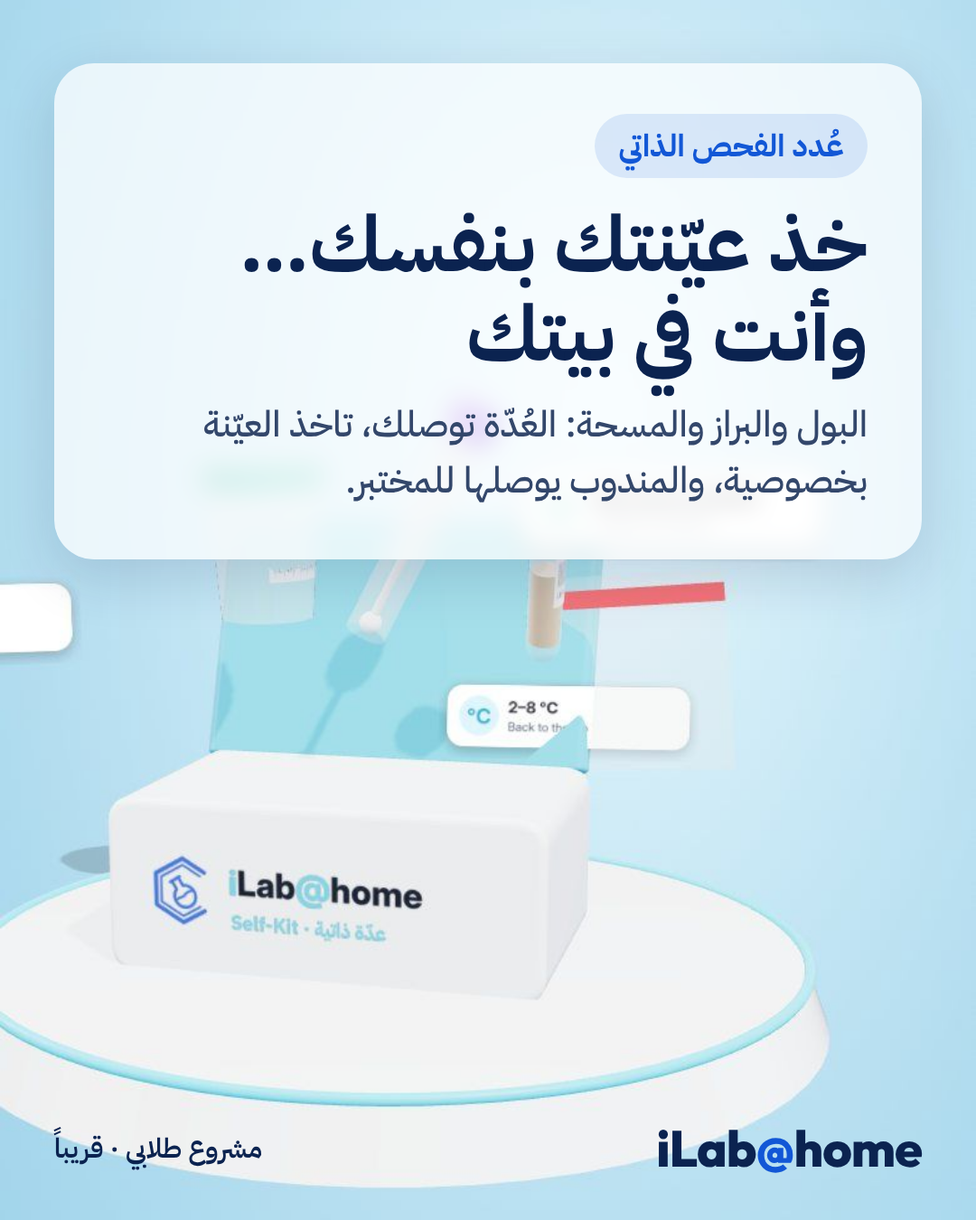
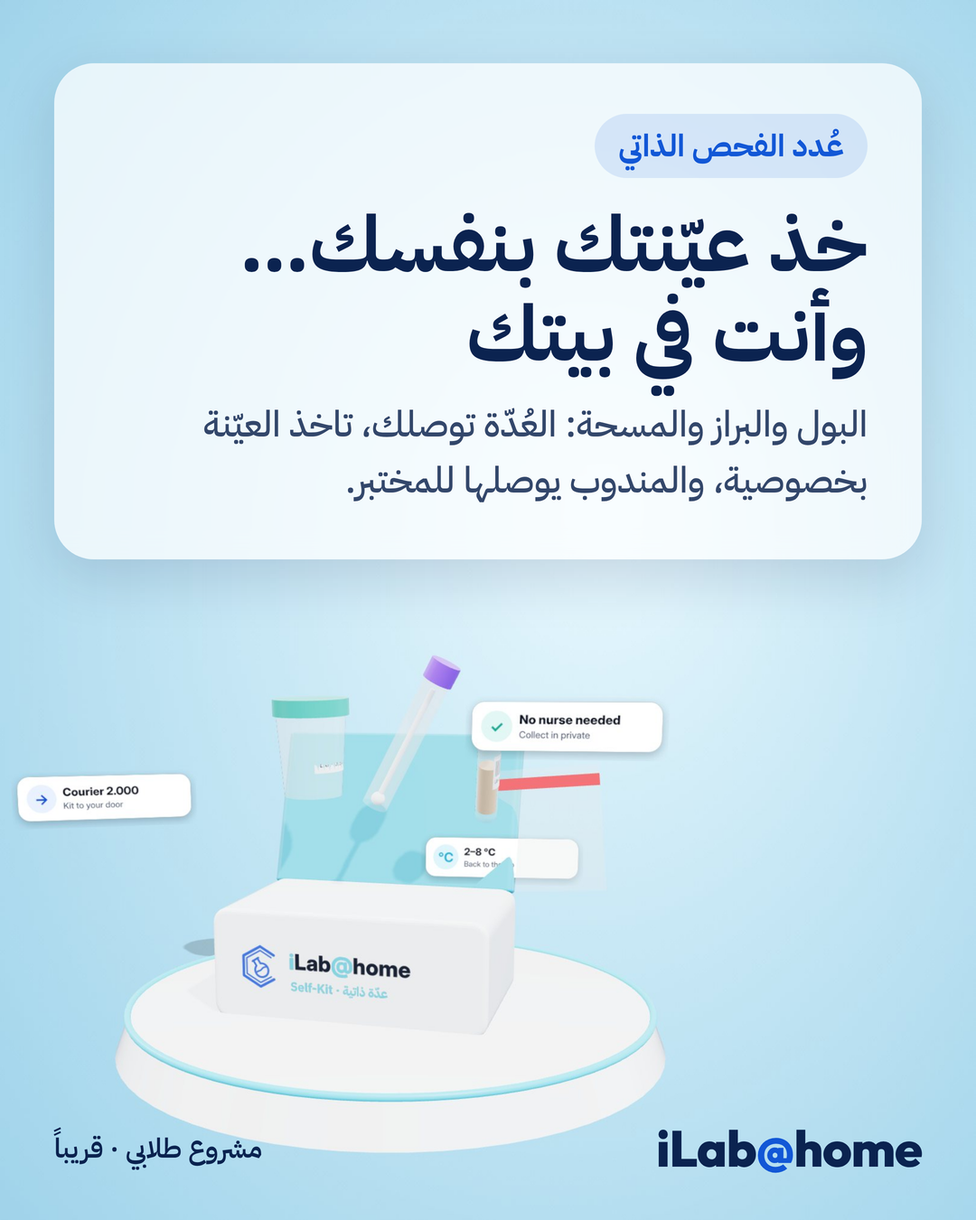
v37: clear trial-version notices (booking, payment, report, PDF): no money taken, results simulated; sharper Instagram images (2x render, hi-res 3D scenes)
Claude-Session: https://claude.ai/code/session_01YANjQfk6gTTfHHSBHSL3Pp

Changed region(s): [[0.0, 0.4356, 0.8556, 0.9956], [0.0, 0.4667, 0.0917, 0.56], [0.4583, 0.3422, 0.5194, 0.3733]]

diff --git a/js/app.js b/js/app.js
@@ -472,11 +472,11 @@ async function viewBook(){
       <div class="row"><input class="input grow" id="cpn" placeholder="${t('coupon')} · ${t('coupon_ph')}" value="${esc(b.coupon ? b.coupon.code : '')}" style="text-transform:uppercase" autocomplete="off"><button class="btn soft" id="cpa">${t('apply')}</button></div>
       ${b.coupon ? `<div class="small" style="color:var(--teal);font-weight:600">${ic('check',14)} ${t('coupon_ok',{x:omr(dCoupon)})}</div>` : ''}
       <div class="paym">${[['card','card','pay_card'],['applepay','phone','pay_apple']].map(([v, i, k]) => `<label class="${b.pay === v ? 'on' : ''}"><input type="radio" name="pay" value="${v}" ${b.pay === v ? 'checked' : ''}> ${ic(i)} <span class="grow b">${t(k)}</span></label>`).join('')}</div>
-      ${b.pay === 'card' ? `<div class="grid g3"><label class="field" style="grid-column:1/-1"><span>${t('card_no')}</span><input class="input ltr" id="cn" inputmode="numeric" maxlength="23" placeholder="4242 4242 4242 4242" autocomplete="cc-number" style="width:100%"></label><label class="field"><span>${t('exp')}</span><input class="input ltr" id="ce" inputmode="numeric" maxlength="5" placeholder="12/28" autocomplete="cc-exp"></label><label class="field"><span>${t('cvv')}</span><input class="input ltr" id="cv" inputmode="numeric" maxlength="4" placeholder="123" autocomplete="cc-csc"></label></div>` : ''}
+      ${b.pay === 'card' ? `<div class="grid g3"><label class="field" style="grid-column:1/-1"><span>${t('card_no')}</span><input class="input ltr" id="cn" inputmode="numeric" maxlength="23" placeholder="4242 4242 4242 4242" autocomplete="cc-number" style="width:100%"></label><label class="field"><span>${t('exp')}</span><input class="input ltr" id="ce" inputmode="numeric" maxlength="5" placeholder="12/28" autocomplete="cc-exp"></label><label class="field"><span>${t('cvv')}</span><input class="input ltr" id="cv" inputmode="numeric" maxlength="4" placeholder="123" autocomplete="cc-csc"></label></div><div class="pilot">${ic('shield',16)} ${t('pilot_pay')}</div>` : ''}
       <div class="banner blue small">${ic('shield',20)}<span>${t('epay_only')} ${t('test_mode')}</span></div>`}<p class="xs muted" style="margin:8px 0 0"><a class="b" href="#/guarantee">${t('guar_book')}</a></p></div>`;
   }
   const next = b.step < 5 ? `<button class="btn" id="nx">${t('next')} ${'<span class="flip">'+ic('arrow',18)+'</span>'}</button>` : `<button class="btn teal" id="pay">${b.program ? t('confirm_book') : t('confirm_pay',{x:omr(total)})}</button>`;
-  app.innerHTML = shell(t('q_book'), `${head}<div class="grid" style="grid-template-columns:minmax(0,1.6fr) minmax(0,1fr);gap:18px" id="bkg">
+  app.innerHTML = shell(t('q_book'), `<div class="pilot">${ic('shield',16)} ${t('pilot_book')}</div>${head}<div class="grid" style="grid-template-columns:minmax(0,1.6fr) minmax(0,1fr);gap:18px" id="bkg">
     <div class="stack">${body}<div class="err" id="be"></div><div class="row">${b.step > 1 ? `<button class="btn ghost" id="pv">${t('back')}</button>` : `<a class="btn ghost" href="#/app/cart">${t('m_cart')}</a>`}<div class="grow"></div>${next}</div></div><div>${summary}</div></div>`, { back: true });
   if (innerWidth < 900) $('#bkg').style.gridTemplateColumns = 'minmax(0,1fr)';
   const err = m => $('#be').textContent = m;
@@ -827,7 +827,7 @@ async function viewReport(id){
       if (lo != null && hi != null && r.v != null) { const span = hi - lo; pos = Math.max(3, Math.min(97, 20 + (r.v - lo) / span * 60)); }
       return `<tr><td>${esc(S.lang === 'ar' ? a.na : a.n)}</td><td class="num b" style="color:${!r.f || r.f === 'N' ? 'inherit' : fx.m ? '#9a6400' : 'var(--red)'}">${r.v ?? '—'} <span class="xs muted" style="font-weight:500">${esc(a.u)}</span></td><td class="small muted num">${rangeTxt(a)}</td><td class="rb-col" style="width:120px"><div class="rangebar"><i style="left:${pos}%"></i></div></td><td>${r.f ? `<span class="flag ${r.f}${fx.m ? ' mild' : ''}${fx.c ? ' crit' : ''}">${fx.c ? t('g_crit') : flagLbl(fx)}</span>` : ''}</td></tr>`; }).join('')).join('');
   const ce = (o.events || []).find(e => e.status === 'collected'); const LVL = orderLevel(o).level;
-  app.innerHTML = shell(t('report_t'), `<div class="row no-print rep-actions"><button class="btn grow" id="pr">${ic('download',18)} ${t('download_pdf')}</button>${navigator.share ? `<button class="btn ghost grow" id="sh">${ic('share',18)} ${t('share_pdf')}</button>` : ''}${S.user.role === 'patient' ? `<button class="btn soft grow" id="shd">${ic('steth',18)} ${t('share_doc')}</button>` : ''}<button class="btn ghost hide-sm" id="pp" aria-label="${t('print')}">${ic('file',18)} ${t('print')}</button></div>
+  app.innerHTML = shell(t('report_t'), `<div class="pilot strong">${ic('shield',18)} ${t('pilot_res')}</div><div class="row no-print rep-actions"><button class="btn grow" id="pr">${ic('download',18)} ${t('download_pdf')}</button>${navigator.share ? `<button class="btn ghost grow" id="sh">${ic('share',18)} ${t('share_pdf')}</button>` : ''}${S.user.role === 'patient' ? `<button class="btn soft grow" id="shd">${ic('steth',18)} ${t('share_doc')}</button>` : ''}<button class="btn ghost hide-sm" id="pp" aria-label="${t('print')}">${ic('file',18)} ${t('print')}</button></div>
   <div class="report"><div class="rh"><div class="row">${A.logo.replace('<svg','<svg width="46" height="46"')}<div><div class="wm-inline">${A.wordmark}</div><div class="small" style="opacity:.8">${t('report_t')}</div></div></div>
     <div class="small" style="text-align:end"><b>${esc(o.lab ? o.lab.name : '')}</b><br>${o.lab && o.lab.license ? t('licence') + ': ' + esc(o.lab.license) : ''}</div></div>
   <div class="rb"><div class="grid g4" style="gap:12px;margin-bottom:18px">
@@ -851,7 +851,7 @@ async function viewReport(id){
   const ar = S.lang === 'ar';
   const pdfData = { lang: S.lang, logo: A.markSvg({ fg:'#ffffff', still:true }), contact: `WhatsApp / Call ${CONTACT.phone}  ·  ${CONTACT.email}`, code: o.code, lab: o.lab ? o.lab.name : '', licence: o.lab && o.lab.license ? t('licence') + ': ' + o.lab.license : '', flags,
     title: `iLab@home ${o.code}`,
-    t: { title: t('report_t'), analyte: t('analyte'), result: t('result'), range: t('ref_range'), flag: t('flag'), insight: t('insight_t'), disclaimer: t('report_disclaimer'), summary: t('lv_'+LVL+'_t') + ' · ' + (flags ? t('some_flags',{n:flags}) : t('all_normal')) },
+    t: { title: t('report_t'), analyte: t('analyte'), result: t('result'), range: t('ref_range'), flag: t('flag'), insight: t('insight_t'), disclaimer: t('pilot_res') + ' ' + t('report_disclaimer'), summary: t('lv_'+LVL+'_t') + ' · ' + (flags ? t('some_flags',{n:flags}) : t('all_normal')) },
     info: [[t('patient'), p.name || '—'], [t('age') + ' / ' + t('sex'), `${p.dob ? age(p.dob) : '—'} / ${p.gender ? t(p.gender) : '—'}`], [t('request'), o.code], [t('collected_at'), ce ? fmtDT(ce.at) : '—'], [t('reported_at'), fmtDT(o.published_at)], [t('verified_by'), o.verified_by || '—']],
     groups: (o.tests || []).map(x => ({ name: LN(x,'name'), rows: x.analytes.map(a0 => { const a = prA(a0, p); const r = res[a.c] || {}; const fx = resFlag(a, r); return { name: ar ? a.na : a.n, v: r.v ?? '—', u: a.u || '', range: rangeTxt(a), f: r.f ? (fx.m ? 'L' : r.f) : '', fl: r.f ? (fx.c ? t('g_crit') : flagLbl(fx)) : '' }; }) })),
     notes: (o.doctor_note ? [t('doc_note_t') + ' (' + (o.doctor_note.name || '') + '): ' + o.doctor_note.note] : []).concat(LVL === 'urgent' ? [t('lv_urgent_p')] : []).concat((o.tests || []).flatMap(x => x.analytes.map(a => { const r = res[a.c] || {}; const n = r.f && r.f !== 'N' && INSIGHT[a.c] && INSIGHT[a.c][r.f]; return n ? `${ar ? a.na : a.n}: ${n[ar ? 1 : 0]}` : null; })).filter(Boolean)) };
@@ -1835,7 +1835,7 @@ async function viewInstall(){
 
 /* native-app behaviour on phones: no pinch/double-tap zoom of the page, hide bars while typing */
 function labelTables(root){ $$('table.table', root).forEach(tb => { const hs = $$('thead th', tb).map(th => th.textContent.trim()); $$('tbody tr', tb).forEach(tr => { [...tr.children].forEach((td, i) => { if (!td.hasAttribute('data-l')) td.setAttribute('data-l', hs[i] || ''); }); }); tb.classList.add('mcards'); }); }
-const APP_V = 36;
+const APP_V = 37;
 let updChecking = false;
 async function checkUpdate(){
   if (updChecking || location.protocol !== 'https:') return; updChecking = true;
@@ -2150,7 +2150,7 @@ function heroSlides(){
 }
 function heroHtml(compact){
   const sl = heroSlides(); const D = S.lang === 'ar' ? 'r' : 'd'; /* desktop pictures: 'r' has the scene on the left for Arabic */
-  return `<section class="h3 ${compact ? 'compact' : ''}" id="h3" data-i="0"><div class="h3-bg"></div><div class="h3-imgs" aria-hidden="true">${sl.map((x, i) => { const a = i ? 'data-' : '', n = x.a; return `<picture class="h3-im ${i ? '' : 'on'}" data-a="${n}"><source media="(max-width:760px)" ${a}srcset="img/hero/h${n}m.webp?v=36" type="image/webp"><source ${a}srcset="img/hero/h${n}${D}.webp?v=36" type="image/webp"><source media="(max-width:760px)" ${a}srcset="img/hero/h${n}m.jpg?v=36"><img ${a}src="img/hero/h${n}${D}.jpg?v=36" alt="" ${i ? '' : 'fetchpriority="high"'} decoding="async"></picture>`; }).join('')}</div><canvas class="h3-c" aria-hidden="true"></canvas><div class="h3-scrim"></div>
+  return `<section class="h3 ${compact ? 'compact' : ''}" id="h3" data-i="0"><div class="h3-bg"></div><div class="h3-imgs" aria-hidden="true">${sl.map((x, i) => { const a = i ? 'data-' : '', n = x.a; return `<picture class="h3-im ${i ? '' : 'on'}" data-a="${n}"><source media="(max-width:760px)" ${a}srcset="img/hero/h${n}m.webp?v=37" type="image/webp"><source ${a}srcset="img/hero/h${n}${D}.webp?v=37" type="image/webp"><source media="(max-width:760px)" ${a}srcset="img/hero/h${n}m.jpg?v=37"><img ${a}src="img/hero/h${n}${D}.jpg?v=37" alt="" ${i ? '' : 'fetchpriority="high"'} decoding="async"></picture>`; }).join('')}</div><canvas class="h3-c" aria-hidden="true"></canvas><div class="h3-scrim"></div>
     <div class="h3-in ${compact ? '' : 'wrap-w'}">${sl.map((x, i) => `<div class="h3-s ${x.tone} ${i ? '' : 'on'}" data-s="${i}" ${i ? 'aria-hidden="true"' : ''}><span class="h3-e">${t(x.e)}</span><h2>${t(x.t)}</h2><p>${esc(x.p)}</p>
       <div class="h3-cta"><a class="btn" href="#/${x.c[1]}">${t(x.c[0])} <span class="flip">${ic('arrow',18)}</span></a>${x.c2 ? `<a class="btn ghost" href="#/${x.c2[1]}">${t(x.c2[0])}</a>` : ''}</div></div>`).join('')}</div>
     <div class="h3-nav ${compact ? '' : 'wrap-w'}"><div class="h3-dots">${sl.map((_, i) => `<button class="${i ? '' : 'on'}" data-d="${i}" aria-label="${i + 1}"><i></i></button>`).join('')}</div>
@@ -2348,12 +2348,12 @@ Object.assign(I18N.ar, { ig_follow:'تابعنا على إنستغرام', ig_sc
 const MEDIA = 'https://ufykiqxsegyuyablrjsq.supabase.co/storage/v1/object/public/media/';
 const HOW_READY = true;
 const NEWS = [['lock','nw34a','v34'],['shield','nw33a','v33'],['steth','nw33b','v33'],['heart','nw32a','v32'],['spark','nw32b','v32'],['video','nw32c','v32'],['check','nw32d','v32'],['steth','nw28a','v28'],['flask','nw28b','v28'],['ring','nw28c','v28'],['spark','nw28d','v28'],['phone','nw25','v25'],['users','nw25b','v25'],['spark','nw18','v18'],['check','nw17a','v17'],['steth','nw17b','v17'],['hosp','nw17c','v17'],['flask','nw17d','v17'],['lock','nw17e','v17']];
-Object.assign(I18N.en, { nw34a:'Stronger protection for your data', nw34ad:'A full security review before launch: your requests, results and chats are visible only to you and the people caring for you, every partner is approved by our team, and the site blocks outside scripts.', nw33a:'Our sample guarantee', nw33ad:'If a sample is damaged or lost on our side, you never pay: a free home re-collection or a full refund, plus an apology gift.', nw33b:'The right nurse for every family member', nw33bd:'A male nurse visits men, a female nurse visits women and children under 12.',
+Object.assign(I18N.en, { pilot_pay:'Trial version of a student project: no money is taken and card details are never sent or stored. Use the test card 4242 4242 4242 4242.', pilot_res:'Trial version: these results are simulated for the demonstration. They are not a real lab test and must not be used for any medical decision.', pilot_book:'Trial version of a student project: bookings are a demonstration; no nurse visits yet and no money is taken.', nw34a:'Stronger protection for your data', nw34ad:'A full security review before launch: your requests, results and chats are visible only to you and the people caring for you, every partner is approved by our team, and the site blocks outside scripts.', nw33a:'Our sample guarantee', nw33ad:'If a sample is damaged or lost on our side, you never pay: a free home re-collection or a full refund, plus an apology gift.', nw33b:'The right nurse for every family member', nw33bd:'A male nurse visits men, a female nurse visits women and children under 12.',
   nw32a:'Meet Noor, your guide', nw32ad:'A small nurse on the home screen greets you, shares health tips and takes you where you need to go.',
   nw32b:'A new home page', nw32bd:'New banners for self-kits, the stamp card, doctor online and companies, your order journey step by step, and answers to common questions.',
   nw32c:'Three new films', nw32cd:'The idea of iLab@home, how to sign up and use the app, and a short film: a day with iLab@home.',
   nw32d:'Faster and smoother', nw32dd:'Every button checked on phone and computer. The doctor button after results and the More menu are fixed, and a slow screen never holds up the next one.' });
-Object.assign(I18N.ar, { nw34a:'حماية أقوى لبياناتك', nw34ad:'مراجعة أمنية كاملة قبل الإطلاق: طلباتك ونتائجك ومحادثاتك ما يشوفها إلا أنت واللي يخدمونك، وكل شريك يعتمده فريقنا، والموقع يمنع أي سكربت خارجي.', nw33a:'ضمان العيّنة', nw33ad:'إذا تلفت العيّنة أو ضاعت بسببنا ما تدفع شي: إعادة سحب مجانية في البيت أو استرداد كامل، مع هدية اعتذار.', nw33b:'الممرض المناسب لكل فرد في العائلة', nw33bd:'الممرض يزور الرجال، والممرضة تزور النساء والأطفال تحت ١٢ سنة.',
+Object.assign(I18N.ar, { pilot_pay:'نسخة تجريبية لمشروع طلابي: ما ينخصم أي مبلغ، وبيانات البطاقة ما تنرسل ولا تنحفظ. استخدم البطاقة التجريبية 4242 4242 4242 4242.', pilot_res:'نسخة تجريبية: هذي النتائج محاكاة للعرض فقط، مو فحص مختبر حقيقي، ولا تعتمد عليها في أي قرار طبي.', pilot_book:'نسخة تجريبية لمشروع طلابي: الحجز للتجربة فقط، ما فيه زيارة ممرض حالياً وما ينخصم أي مبلغ.', nw34a:'حماية أقوى لبياناتك', nw34ad:'مراجعة أمنية كاملة قبل الإطلاق: طلباتك ونتائجك ومحادثاتك ما يشوفها إلا أنت واللي يخدمونك، وكل شريك يعتمده فريقنا، والموقع يمنع أي سكربت خارجي.', nw33a:'ضمان العيّنة', nw33ad:'إذا تلفت العيّنة أو ضاعت بسببنا ما تدفع شي: إعادة سحب مجانية في البيت أو استرداد كامل، مع هدية اعتذار.', nw33b:'الممرض المناسب لكل فرد في العائلة', nw33bd:'الممرض يزور الرجال، والممرضة تزور النساء والأطفال تحت ١٢ سنة.',
   nw32a:'تعرّف على نور، مرشدتك', nw32ad:'ممرضة صغيرة في الصفحة الرئيسية تسلّم عليك، وتعطيك نصائح صحية، وتوديك للي تحتاجه.',
   nw32b:'صفحة رئيسية جديدة', nw32bd:'بنرات جديدة للعُدد الذاتية وبطاقة الأختام والطبيب أونلاين والشركات، ورحلة طلبك خطوة بخطوة، وأجوبة الأسئلة الشائعة.',
   nw32c:'ثلاث أفلام جديدة', nw32cd:'فكرة آي لاب@هوم، وطريقة التسجيل واستخدام البرنامج، وفلم قصير: يوم مع آي لاب@هوم.',
@@ -2684,7 +2684,7 @@ async function viewConsultNew(){
       <div class="vline"><span class="muted">${t('cs_s1')}</span><b>${esc(doc ? doc.name : '')}</b></div><div class="vline"><span class="muted">${t('cs_s2')}</span><b>${t('cs_' + b.mode)}</b></div>
       <div class="vline"><span class="muted">${t('appointment')}</span><b>${fmtDate(b.date)} · ${b.time}</b></div><div class="vline" style="border:0"><span class="muted">${t('cs_fee')}</span><b class="num">${fee ? omr(fee) + ' ' + t('omr') : t('cs_free')}</b></div>
       ${fee ? `<div class="paym">${[['card','card','pay_card'],['applepay','phone','pay_apple']].map(([v, i, k]) => `<label class="${b.pay === v ? 'on' : ''}"><input type="radio" name="pay" value="${v}" ${b.pay === v ? 'checked' : ''}> ${ic(i)} <span class="grow b">${t(k)}</span></label>`).join('')}</div>
-      ${b.pay === 'card' ? `<div class="grid g3"><label class="field" style="grid-column:1/-1"><span>${t('card_no')}</span><input class="input ltr" id="cn" inputmode="numeric" maxlength="23" placeholder="4242 4242 4242 4242" autocomplete="cc-number"></label><label class="field"><span>${t('exp')}</span><input class="input ltr" id="ce" inputmode="numeric" maxlength="5" placeholder="12/28"></label><label class="field"><span>${t('cvv')}</span><input class="input ltr" id="cv" inputmode="numeric" maxlength="4" placeholder="123"></label></div>` : ''}
+      ${b.pay === 'card' ? `<div class="grid g3"><label class="field" style="grid-column:1/-1"><span>${t('card_no')}</span><input class="input ltr" id="cn" inputmode="numeric" maxlength="23" placeholder="4242 4242 4242 4242" autocomplete="cc-number"></label><label class="field"><span>${t('exp')}</span><input class="input ltr" id="ce" inputmode="numeric" maxlength="5" placeholder="12/28"></label><label class="field"><span>${t('cvv')}</span><input class="input ltr" id="cv" inputmode="numeric" maxlength="4" placeholder="123"></label></div><div class="pilot">${ic('shield',16)} ${t('pilot_pay')}</div>` : ''}
       <div class="banner blue small">${ic('shield',20)}<span>${t('epay_only')} ${t('test_mode')}</span></div>` : `<div class="banner teal small">${ic('check',18)}<span>${t('cs_free_note')}</span></div>`}<div class="err" id="cse"></div></div>`;
   }
   const head = `<div class="stepper">${steps.map((k, i) => `<i class="${i < b.step ? 'on' : ''}"></i>`).join('')}</div><div class="steplabels">${steps.map((k, i) => `<span class="${i + 1 === b.step ? 'on' : ''}">${i + 1}. ${t(k)}</span>`).join('')}</div>`;

diff --git a/project-knowledge/instagram/source/design.html b/project-knowledge/instagram/source/design.html
@@ -35,7 +35,7 @@ body{background:transparent;font-family:"IBM Plex Sans Arabic",Inter,sans-serif;
 <div class="f sq blue" id="profile"><div class="logo" style="position:absolute;inset:220px"></div></div>
 
 <!-- teaser carousel -->
-<div class="f pt" id="post1"><div class="bg" style="background-image:url(file:///home/user/Martian-map/img/hero/h0m.jpg);background-position:center 70%"></div>
+<div class="f pt" id="post1"><div class="bg" style="background-image:url(scenes/h0ig.jpg);background-position:center"></div>
   <div class="glass" style="position:absolute;top:70px;inset-inline:60px;padding:56px 60px">
     <span class="chip">قريباً · شمال الشرقية</span>
     <div class="h1" style="margin:26px 0 18px">فحصك المخبري…<br>يوصلك لين باب بيتك</div>
@@ -111,7 +111,7 @@ body{background:transparent;font-family:"IBM Plex Sans Arabic",Inter,sans-serif;
    <div class="glass" style="flex:1;padding:50px 30px"><img src="file:///home/user/Martian-map/img/doctors/aisha.webp" style="width:230px;height:230px;border-radius:50%;object-fit:cover;box-shadow:0 10px 30px rgba(11,35,80,.15)"><h3 style="font-size:50px;margin:20px 0 10px">ممرضة</h3><p style="font-size:36px;color:#4a5d80">تزور النساء<br>والأطفال تحت 12</p></div></div></div>
   <div class="foot"><span class="wm" style="font-size:52px;color:#0b2350">iLab<b style="color:#1257d6">@</b>home</span><span style="color:#5b3fd6;font-size:30px">مشروع طلابي · قريباً</span></div></div>
 
-<div class="f pt" id="post_kit"><div class="bg" style="background-image:url(file:///home/user/Martian-map/img/hero/h5m.jpg);background-position:center 75%"></div>
+<div class="f pt" id="post_kit"><div class="bg" style="background-image:url(scenes/h5igc.jpg);background-position:center"></div>
   <div class="glass" style="position:absolute;top:70px;inset-inline:60px;padding:56px 60px">
     <span class="chip">عُدد الفحص الذاتي</span>
     <div class="h1" style="margin:26px 0 18px">خذ عيّنتك بنفسك…<br>وأنت في بيتك</div>

diff --git a/index.html b/index.html
@@ -22,21 +22,21 @@
 <link rel="preconnect" href="https://fonts.gstatic.com" crossorigin>
 <link href="https://fonts.googleapis.com/css2?family=IBM+Plex+Sans+Arabic:wght@400;500;600;700&family=Inter:wght@400;500;600;700;800&family=Outfit:wght@600;700&display=swap" rel="stylesheet" media="print" onload="this.media='all'">
 <noscript><link href="https://fonts.googleapis.com/css2?family=IBM+Plex+Sans+Arabic:wght@400;500;600;700&family=Inter:wght@400;500;600;700;800&family=Outfit:wght@600;700&display=swap" rel="stylesheet"></noscript>
-<link rel="preload" as="image" href="img/hero/h0m.webp?v=36" media="(max-width:760px)" fetchpriority="high">
-<link rel="stylesheet" href="css/app.css?v=36">
+<link rel="preload" as="image" href="img/hero/h0m.webp?v=37" media="(max-width:760px)" fetchpriority="high">
+<link rel="stylesheet" href="css/app.css?v=37">
 </head>
 <body>
 <div id="app" aria-live="polite"></div>
 <div id="toast" role="status"></div>
 <div id="modal-root"></div>
 <noscript>iLab@home needs JavaScript to run.</noscript>
-<script src="js/i18n.js?v=36"></script>
-<script src="js/art.js?v=36"></script>
-<script src="js/api.js?v=36"></script>
-<script src="js/qr.js?v=36"></script>
-<script src="js/pdf.js?v=36"></script>
-<script src="js/guide.js?v=36"></script>
-<script src="js/motion.js?v=36"></script>
-<script src="js/app.js?v=36"></script>
+<script src="js/i18n.js?v=37"></script>
+<script src="js/art.js?v=37"></script>
+<script src="js/api.js?v=37"></script>
+<script src="js/qr.js?v=37"></script>
+<script src="js/pdf.js?v=37"></script>
+<script src="js/guide.js?v=37"></script>
+<script src="js/motion.js?v=37"></script>
+<script src="js/app.js?v=37"></script>
 </body>
 </html>

diff --git a/sw.js b/sw.js
@@ -1,5 +1,5 @@
-const V = 'lah-v36';
-const CORE = ['./', 'index.html', 'css/app.css?v=36', 'js/i18n.js?v=36', 'js/art.js?v=36', 'js/api.js?v=36', 'js/qr.js?v=36', 'js/pdf.js?v=36', 'js/guide.js?v=36', 'js/motion.js?v=36', 'js/app.js?v=36', 'icons/icon.svg', 'manifest.webmanifest', "img/hero/h0d.webp?v=36", "img/hero/h0m.webp?v=36"];
+const V = 'lah-v37';
+const CORE = ['./', 'index.html', 'css/app.css?v=37', 'js/i18n.js?v=37', 'js/art.js?v=37', 'js/api.js?v=37', 'js/qr.js?v=37', 'js/pdf.js?v=37', 'js/guide.js?v=37', 'js/motion.js?v=37', 'js/app.js?v=37', 'icons/icon.svg', 'manifest.webmanifest', "img/hero/h0d.webp?v=37", "img/hero/h0m.webp?v=37"];
 self.addEventListener('install', e => { e.waitUntil(caches.open(V).then(c => c.addAll(CORE)).then(() => self.skipWaiting())); });
 self.addEventListener('activate', e => { e.waitUntil(caches.keys().then(ks => Promise.all(ks.filter(k => k !== V).map(k => caches.delete(k)))).then(() => self.clients.claim())); });
 self.addEventListener('fetch', e => {

diff --git a/project-knowledge/instagram/source/shoot.js b/project-knowledge/instagram/source/shoot.js
@@ -1,5 +1,5 @@
 const { chromium } = require('playwright');
-(async () => { const b = await chromium.launch(); const p = await b.newPage({ viewport: { width: 1200, height: 2000 } }); const errs = []; p.on('pageerror', e => errs.push(e.message));
+(async () => { const b = await chromium.launch(); const p = await b.newPage({ viewport: { width: 1200, height: 2000 }, deviceScaleFactor: 2 }); const errs = []; p.on('pageerror', e => errs.push(e.message));
   await p.goto('file://' + __dirname + '/design.html'); await p.waitForTimeout(2500); await p.evaluate(() => document.fonts.ready);
   for (const id of await p.$$eval('.f', a => a.map(e => e.id))) { const el = await p.$('#' + id); const ov = id.startsWith('tz') && id !== 'tzend';
     await el.screenshot({ path: __dirname + '/out_' + id + '.png', omitBackground: ov }); }

diff --git a/css/app.css b/css/app.css
@@ -1263,3 +1263,7 @@ body:has(#app .auth) #bot{display:none}
 @media (max-width:899px){#app{padding-bottom:76px}}
 #nurse.beside,#nurse.beside:not(.rtl){transform:translateY(40px);opacity:0;transition:transform .8s cubic-bezier(.25,.8,.3,1),opacity .6s}
 #nurse.beside.in{transform:none;opacity:1}
+/* trial-version notices (student project pilot) */
+.pilot{display:flex;gap:8px;align-items:flex-start;margin:12px 0;padding:10px 14px;border-radius:12px;background:#fff7e6;color:#7a4b00;font-size:.88rem;line-height:1.55;border:1px solid #ffe0a3}
+.pilot svg{flex:none;margin-top:3px}.pilot.strong{font-weight:600;font-size:.95rem}
+@media print{.pilot{border:1px solid #c98a00}}
